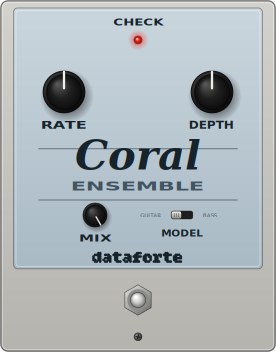
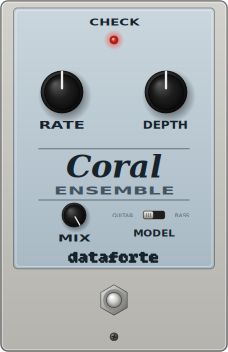
GUI: narrow the pedal and fit the model name between the rules
The two-knob CE-2 face does not need the full 345-unit width: reduce the
design space to 285 x 440, tighten the knob/MIX/switch/footswitch positions
and regenerate the modgui and screenshots. Shrink 'Coral' from 52 to 40 and
'ENSEMBLE' from 15 to 13 and re-centre them between the rules so the top
rule no longer cuts through the lettering. The UI test coordinates and the
default window width follow the new design.

diff --git a/modgui/stylesheet.css b/modgui/stylesheet.css
@@ -1,11 +1,11 @@
 /* generated by tools/render_modgui.cpp from Artwork.hpp -- do not edit */
-.ce-pedal { position: relative; width: 276px; height: 352px; background-image: url(/resources/pedal.png{{{ns}}}); background-size: 276px 352px; background-repeat: no-repeat; }
+.ce-pedal { position: relative; width: 228px; height: 352px; background-image: url(/resources/pedal.png{{{ns}}}); background-size: 228px 352px; background-repeat: no-repeat; }
 .ce-pedal .ce-knob, .ce-pedal .ce-mix, .ce-pedal .ce-switch, .ce-pedal .ce-led, .ce-pedal .ce-foot { position: absolute; cursor: pointer; }
-.ce-pedal .ce-rate { left: 34px; top: 62px; width: 60px; height: 60px; background-image: url(/resources/knob.png{{{ns}}}); background-repeat: no-repeat; background-size: 3660px 60px; }
-.ce-pedal .ce-depth { left: 182px; top: 62px; width: 60px; height: 60px; background-image: url(/resources/knob.png{{{ns}}}); background-repeat: no-repeat; background-size: 3660px 60px; }
-.ce-pedal .ce-mix { left: 80px; top: 200px; width: 30px; height: 30px; background-image: url(/resources/mixknob.png{{{ns}}}); background-repeat: no-repeat; background-size: 1830px 30px; }
-.ce-pedal .ce-switch { left: 168px; top: 201px; width: 28px; height: 28px; background-image: url(/resources/switch.png{{{ns}}}); background-repeat: no-repeat; background-size: 56px 28px; }
-.ce-pedal .ce-led { left: 126px; top: 28px; width: 24px; height: 24px; background-image: url(/resources/led.png{{{ns}}}); background-repeat: no-repeat; background-size: 48px 24px; }
+.ce-pedal .ce-rate { left: 32px; top: 62px; width: 60px; height: 60px; background-image: url(/resources/knob.png{{{ns}}}); background-repeat: no-repeat; background-size: 3660px 60px; }
+.ce-pedal .ce-depth { left: 136px; top: 62px; width: 60px; height: 60px; background-image: url(/resources/knob.png{{{ns}}}); background-repeat: no-repeat; background-size: 3660px 60px; }
+.ce-pedal .ce-mix { left: 59px; top: 200px; width: 30px; height: 30px; background-image: url(/resources/mixknob.png{{{ns}}}); background-repeat: no-repeat; background-size: 1830px 30px; }
+.ce-pedal .ce-switch { left: 140px; top: 201px; width: 28px; height: 28px; background-image: url(/resources/switch.png{{{ns}}}); background-repeat: no-repeat; background-size: 56px 28px; }
+.ce-pedal .ce-led { left: 102px; top: 28px; width: 24px; height: 24px; background-image: url(/resources/led.png{{{ns}}}); background-repeat: no-repeat; background-size: 48px 24px; }
 .ce-pedal .ce-led.on { background-position: -24px 0px; }
-.ce-pedal .ce-foot { left: 118px; top: 280px; width: 40px; height: 40px; border-radius: 50%; }
+.ce-pedal .ce-foot { left: 94px; top: 280px; width: 40px; height: 40px; border-radius: 50%; }
 .ce-pedal .mod-pedal-input, .ce-pedal .mod-pedal-output { top: 24px; }

diff --git a/plugins/CoralEnsemble/Artwork.hpp b/plugins/CoralEnsemble/Artwork.hpp
@@ -26,7 +26,7 @@
 
 namespace ce_art {
 
-constexpr double W = 345.0;
+constexpr double W = 285.0;
 constexpr double H = 440.0;
 
 // ---- palette ---------------------------------------------------------
@@ -58,11 +58,11 @@ enum { P_RATE, P_DEPTH, P_MIX, P_MODEL, P_BYPASS, P_COUNT };
 // place backgrounds at fractional offsets with sub-pixel blur otherwise.
 // tools/render_modgui.cpp refuses to generate fractional positions.
 constexpr double KNOB_Y = 115.0, KNOB_R = 26.0;
-constexpr double KX[2] = { 80.0, 265.0 };
-constexpr double MIX_X = 118.75, MIX_Y = 268.75, MIX_R = 15.0;
-constexpr double SW_X = 227.5, SW_Y = 268.75;
-constexpr double LED_X = 172.5, LED_Y = 50.0;
-constexpr double FOOT_X = 172.5, FOOT_Y = 375.0;
+constexpr double KX[2] = { 77.5, 207.5 };
+constexpr double MIX_X = 92.5, MIX_Y = 268.75, MIX_R = 15.0;
+constexpr double SW_X = 192.5, SW_Y = 268.75;
+constexpr double LED_X = 142.5, LED_Y = 50.0;
+constexpr double FOOT_X = 142.5, FOOT_Y = 375.0;
 
 constexpr Control kControls[] = {
     { P_RATE,   kKnob,       KX[0],  KNOB_Y, KNOB_R, 0,    0,  0, 10 },
@@ -332,10 +332,10 @@ inline void led(cairo_t* cr, double cx, double cy, bool lit)
 // The model name in flowing italic lettering, like the original's script.
 inline void logo(cairo_t* cr)
 {
-    text(cr, "Coral", W / 2, 212, 52, kInk, kCenter, true,
+    text(cr, "Coral", W / 2, 222, 40, kInk, kCenter, true,
          "DejaVu Serif", 0.0, 0.0, CAIRO_FONT_SLANT_ITALIC);
-    text(cr, "ENSEMBLE", W / 2, 238, 15, kSoft, kCenter, true,
-         "DejaVu Sans", 0.0, 168.0);
+    text(cr, "ENSEMBLE", W / 2, 243, 13, kSoft, kCenter, true,
+         "DejaVu Sans", 0.0, 150.0);
 }
 
 // ---- layers ----------------------------------------------------------

diff --git a/plugins/CoralEnsemble/DistrhoPluginInfo.h b/plugins/CoralEnsemble/DistrhoPluginInfo.h
@@ -31,7 +31,7 @@
 
 #define DISTRHO_UI_USE_CAIRO       1
 #define DISTRHO_UI_USER_RESIZABLE  1
-#define DISTRHO_UI_DEFAULT_WIDTH   345
+#define DISTRHO_UI_DEFAULT_WIDTH   285
 #define DISTRHO_UI_DEFAULT_HEIGHT  440
 
 // Parameter order matches PortIndex in src/coralensemble.h (the

diff --git a/README.md b/README.md
@@ -145,7 +145,7 @@ the JSON and running `make presets` -- no C++ changes.
 
 ## GUI
 
-The pedal is drawn with cairo in a fixed design space (345 × 440) and
+The pedal is drawn with cairo in a fixed design space (285 × 440) and
 scaled to the window with the aspect ratio kept, from 0.5× up, HiDPI
 aware. Knobs drag (Shift: fine), respond to the wheel and reset on
 double-click; the switch and the footswitch click. The palette and
